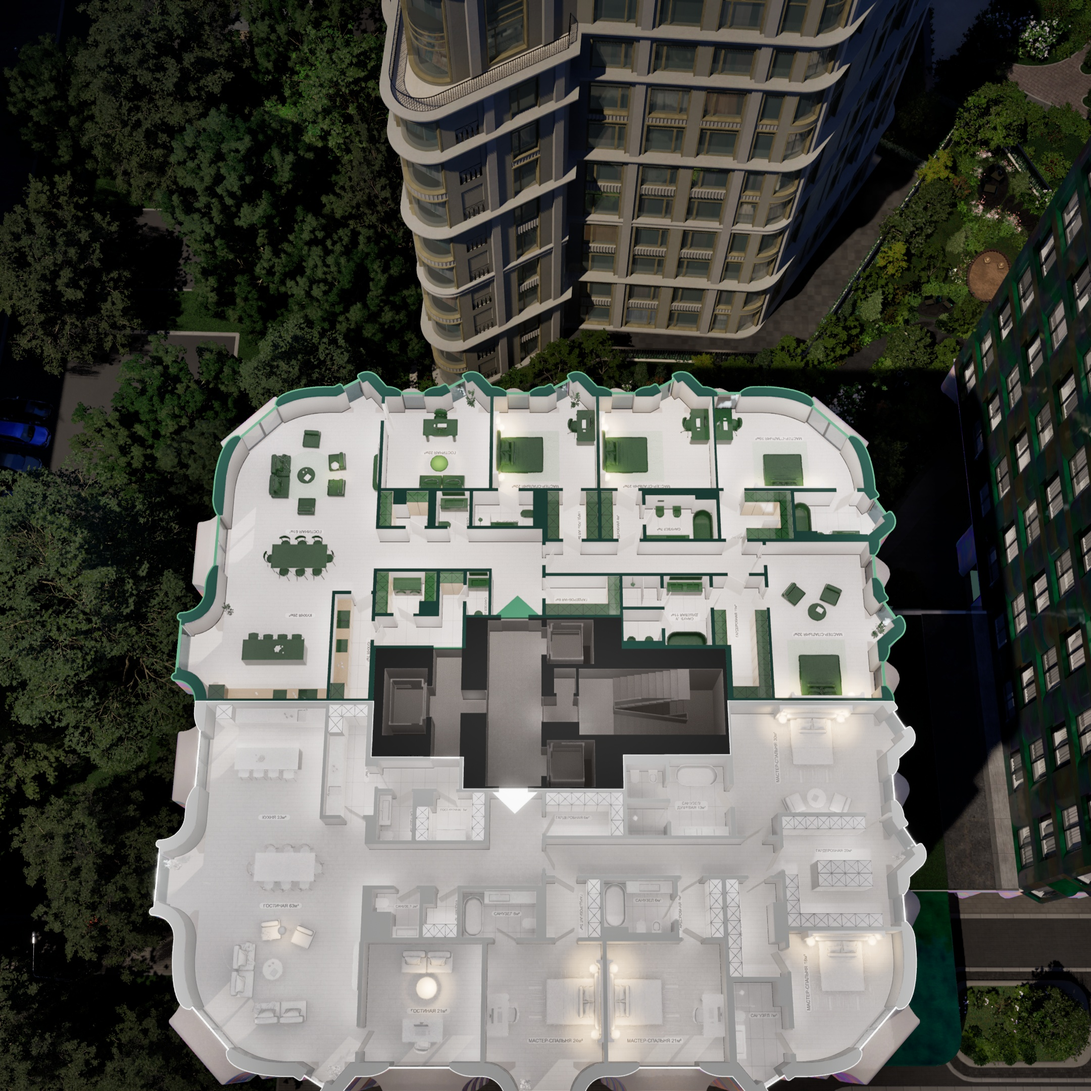
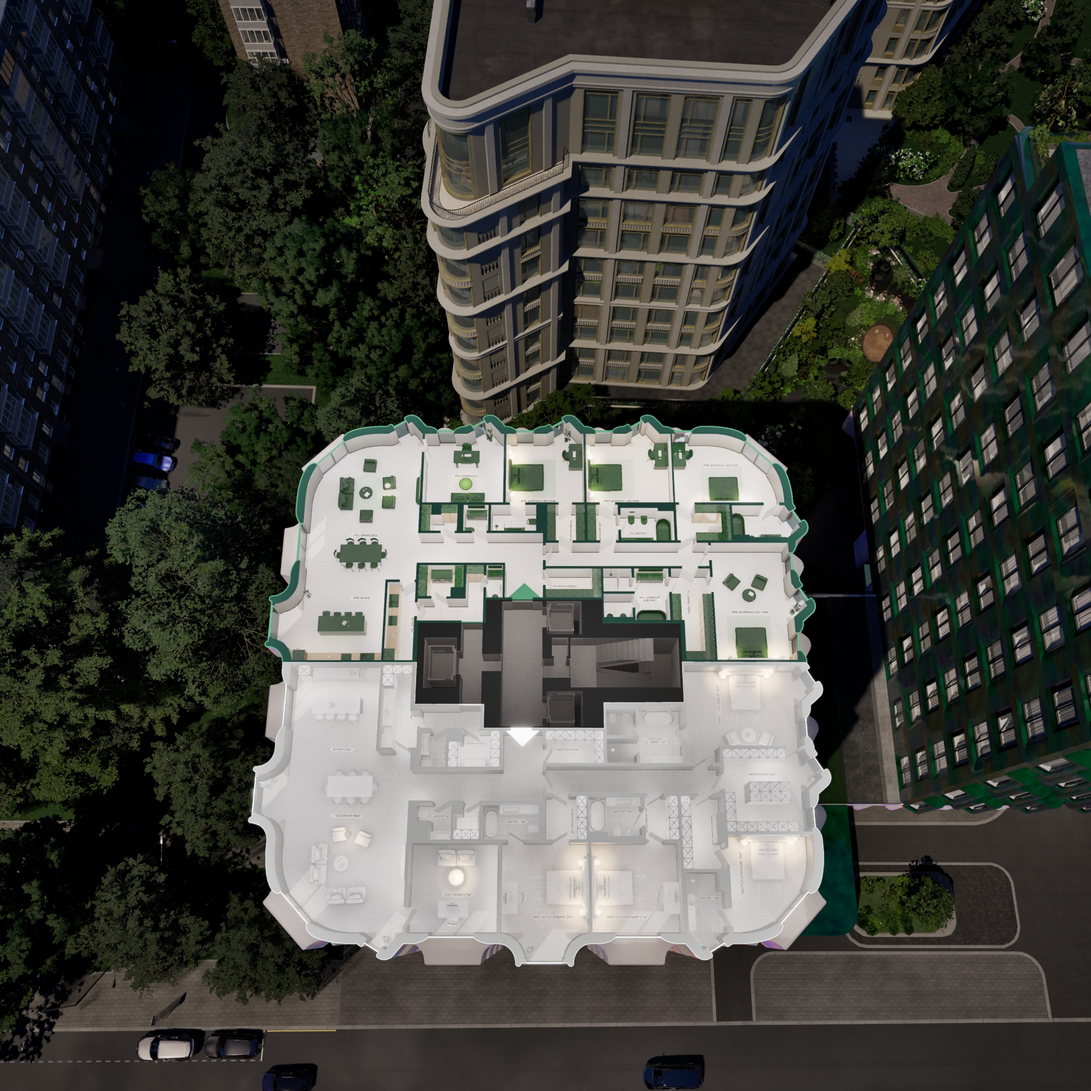
Replace floor 10-11 plans; plan initial zoom 3.5x
- 1-11-1101 <- 1-11-01, 1-10-1001 <- 1-10-01, 1-10-1002 <- 1-10-02_vertical.
- Plan viewer now opens at ~3.5x (max zoom raised to 7x).

diff --git a/index.html b/index.html
@@ -730,7 +730,7 @@
         iw = img.naturalWidth || 1; ih = img.naturalHeight || 1;
         img.style.width = iw + "px"; img.style.height = ih + "px";
         var fit = Math.min(cw / iw, ch / ih);
-        minS = fit; maxS = fit * 6; s = Math.min(maxS, fit * 2);   // старт ~2×
+        minS = fit; maxS = fit * 7; s = Math.min(maxS, fit * 3.5);   // старт ~3.5×
         tx = (cw - iw * s) / 2; ty = (ch - ih * s) / 2;
         clamp(); apply();
       }
